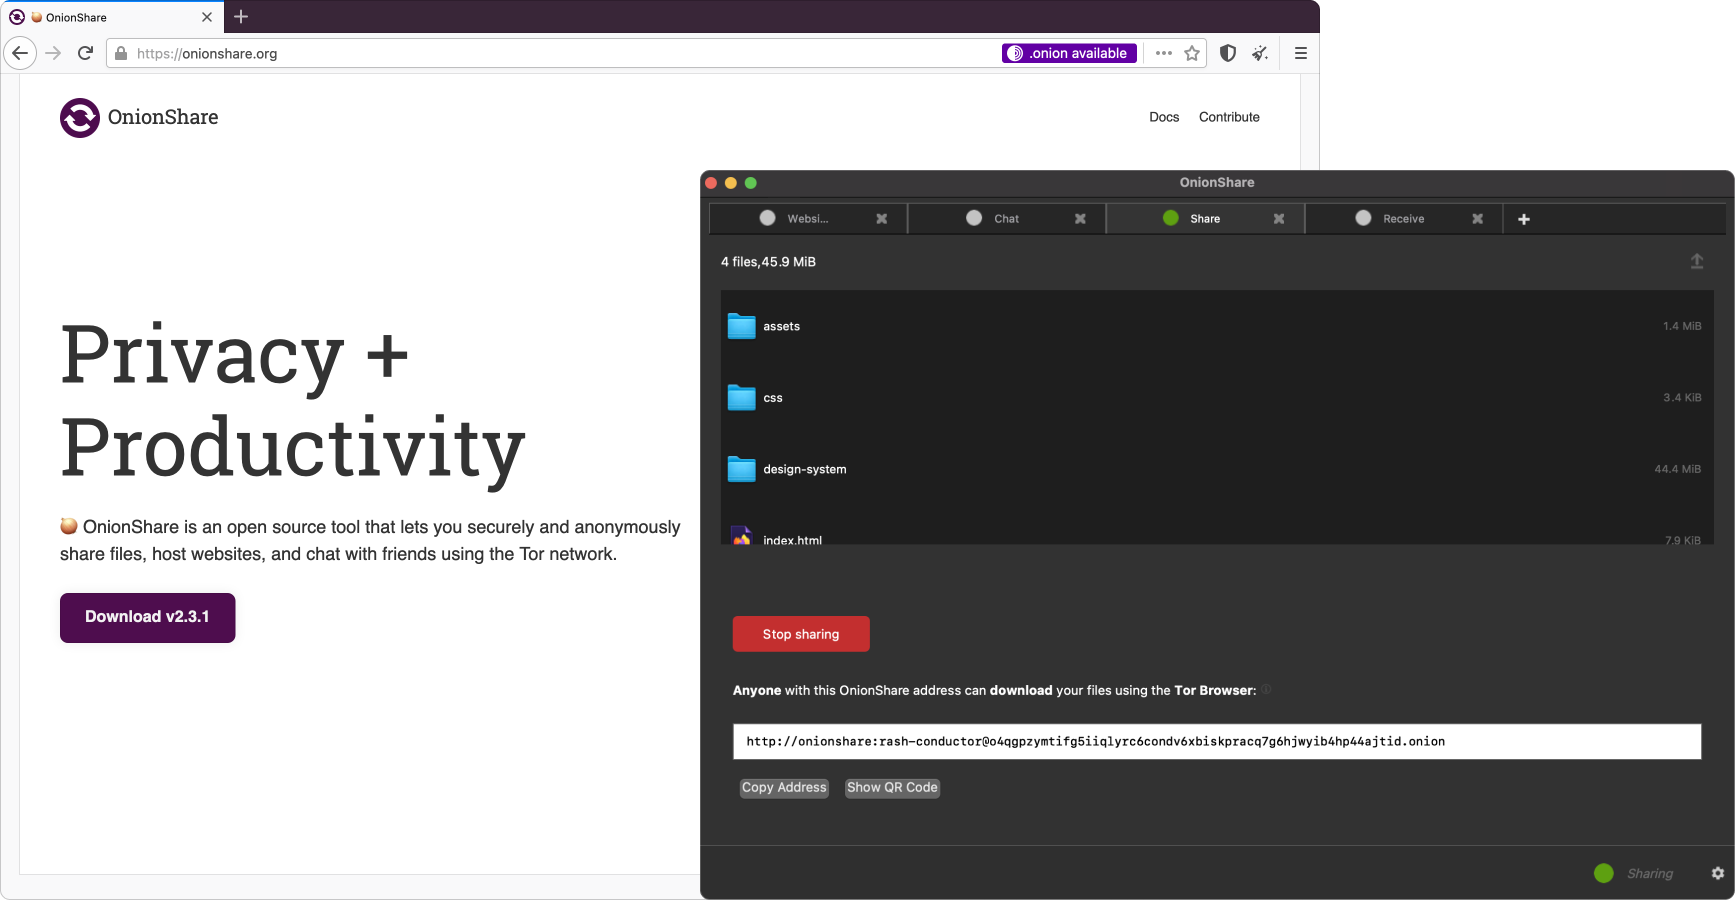
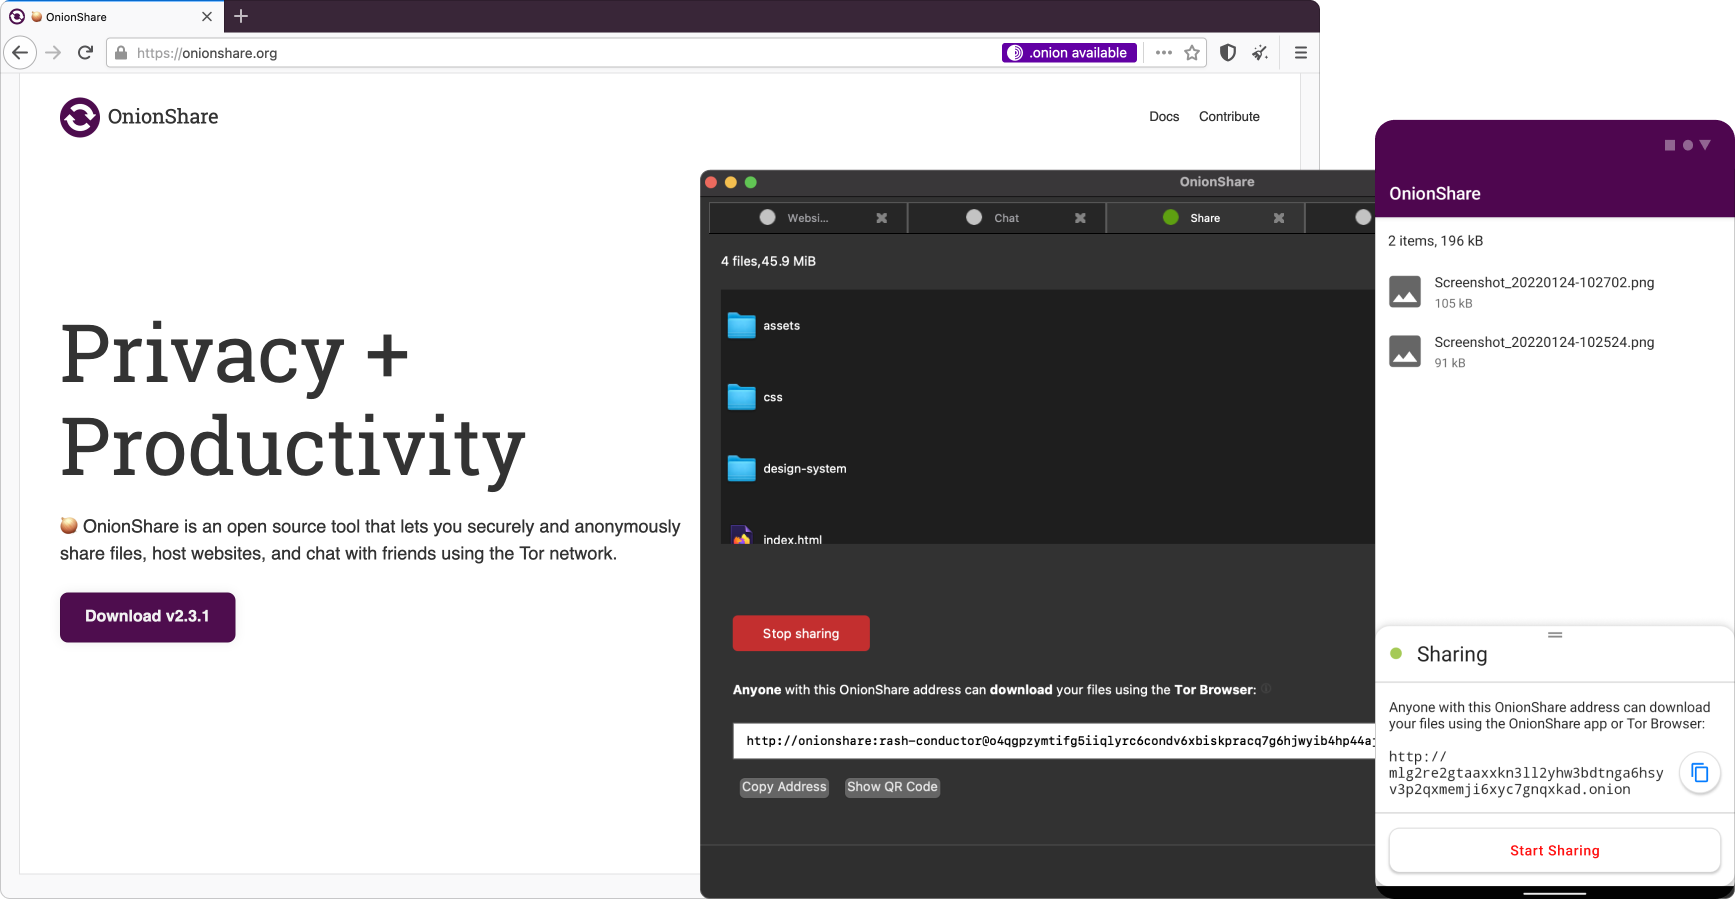
update onionshare
add mobile assets

diff --git a/index.html b/index.html
@@ -101,7 +101,7 @@
 					<div class="description flip">
 						<div class="icon onionshare"></div>
 						<h4>OnionShare</h4>
-						<p>UI, UX, CX, and visual design for OnionShare's desktop app. UI, HTML, CSS, visual design, and content for the public website.</p>
+						<p>UI, UX, CX, evaluative research, and visual design for OnionShare's mobile and desktop apps. UI, HTML, CSS, visual design, and content for the public website.</p>
 						<p><a href="https://onionshare.org/" target="_blank" rel="noopener noreferrer">Visit the OnionShare website</a></p>
 					</div>
 					<img src="assets/onionshare/cover/cover.png" alt="Onionshare website and desktop app.">
